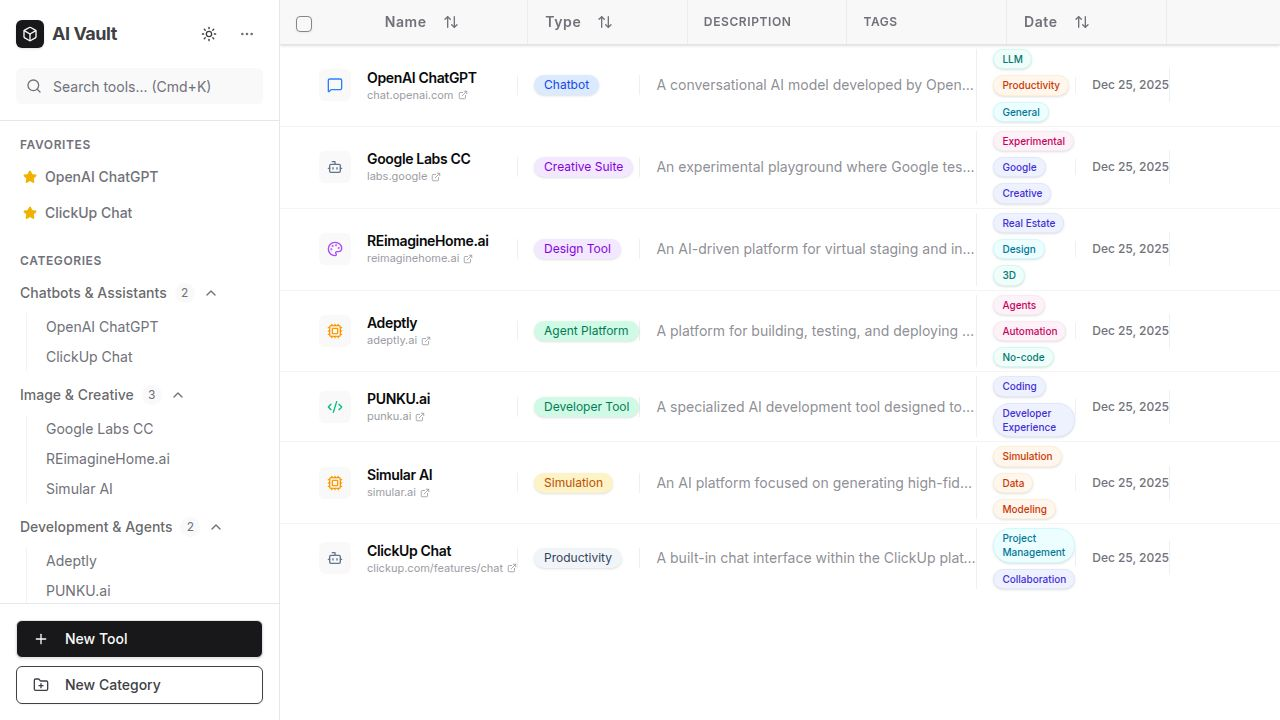
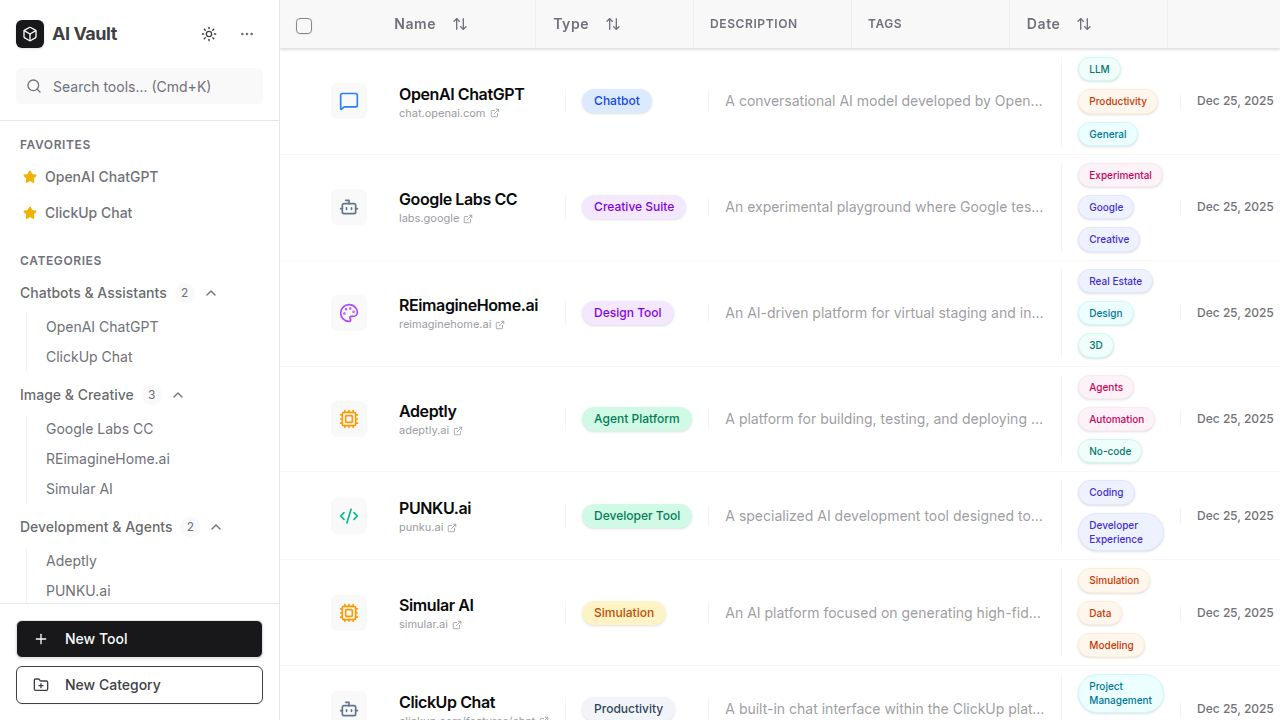
Enhance table appearance with increased row height and modern UI styling
Update ToolTable component to increase row height and cell padding, adjust icon sizes, modify text styles for name and description, refine badge appearance, and soften borders with a cleaner alternating row tint.

Replit-Commit-Author: Agent
Replit-Commit-Session-Id: 4b2f2ba4-cf3e-48dc-94a7-976f38e7155f
Replit-Commit-Checkpoint-Type: full_checkpoint
Replit-Commit-Event-Id: 47f153fe-fa7f-4975-9982-20dec0bfc790
Replit-Commit-Screenshot-Url: https://storage.googleapis.com/screenshot-production-us-central1/f680847d-1c71-4e98-a783-d24e051b3d42/4b2f2ba4-cf3e-48dc-94a7-976f38e7155f/qLF14MP
Replit-Helium-Checkpoint-Created: true

diff --git a/client/src/components/ToolTable.tsx b/client/src/components/ToolTable.tsx
@@ -71,8 +71,8 @@ const TypeIcon = ({ type }: { type: string }) => {
   else if (t.includes('web') || t.includes('site')) { Icon = Globe; colorClass = "text-cyan-500"; }
 
   return (
-    <div className="w-8 h-8 rounded-md bg-muted/50 flex items-center justify-center shrink-0 border border-transparent group-hover:bg-muted group-hover:border-border/50 transition-colors">
-      <Icon className={cn("w-4 h-4", colorClass)} />
+    <div className="w-9 h-9 rounded-md bg-muted/50 flex items-center justify-center shrink-0 border border-transparent group-hover:bg-muted group-hover:border-border/50 transition-colors">
+      <Icon className={cn("w-5 h-5", colorClass)} />
     </div>
   );
 };
@@ -133,7 +133,7 @@ export function ToolTable() {
         />
       ),
       cell: ({ row }) => (
-        <div className="border-l-[3px] border-transparent group-data-[state=selected]:border-primary h-full flex items-center pl-3 -ml-4 transition-colors">
+        <div className="border-l-[3px] border-transparent group-data-[state=selected]:border-primary h-full flex items-center pl-4 -ml-4 transition-colors">
            <Checkbox
             checked={row.getIsSelected()}
             onCheckedChange={(value) => row.toggleSelected(!!value)}
@@ -150,7 +150,7 @@ export function ToolTable() {
       accessorKey: "icon",
       header: "",
       cell: ({ row }) => <TypeIcon type={row.original.type} />,
-      size: 50,
+      size: 60,
     },
     {
       accessorKey: "name",
@@ -168,7 +168,7 @@ export function ToolTable() {
       },
       cell: ({ row }) => (
         <div className="flex flex-col max-w-[240px]">
-          <span className="font-semibold text-foreground truncate tracking-tight">{row.getValue("name")}</span>
+          <span className="font-semibold text-base text-foreground truncate tracking-tight">{row.getValue("name")}</span>
           <a 
             href={row.original.url} 
             target="_blank" 
@@ -186,7 +186,7 @@ export function ToolTable() {
       accessorKey: "type",
       header: ({ column }) => {
         return (
-          <div className="border-l border-border/60 pl-4 -ml-4 h-full flex items-center">
+          <div className="border-l border-border/40 pl-4 -ml-4 h-full flex items-center">
             <Button
               variant="ghost"
               onClick={() => column.toggleSorting(column.getIsSorted() === "asc")}
@@ -199,8 +199,8 @@ export function ToolTable() {
         )
       },
       cell: ({ row }) => (
-        <div className="border-l border-border/60 pl-4 -ml-4 h-full flex items-center">
-          <Badge variant="outline" className={`font-normal whitespace-nowrap px-2.5 py-0.5 rounded-full border-none ${getTypeColor(row.getValue("type"))}`}>
+        <div className="border-l border-border/40 pl-4 -ml-4 h-full flex items-center">
+          <Badge variant="outline" className={`font-medium whitespace-nowrap px-3 py-1 rounded-full border-none ${getTypeColor(row.getValue("type"))}`}>
             {row.getValue("type")}
           </Badge>
         </div>
@@ -208,10 +208,10 @@ export function ToolTable() {
     },
     {
       accessorKey: "whatItIs",
-      header: () => <div className="border-l border-border/60 pl-4 -ml-4 h-full flex items-center font-semibold text-muted-foreground">Description</div>,
+      header: () => <div className="border-l border-border/40 pl-4 -ml-4 h-full flex items-center font-semibold text-muted-foreground">Description</div>,
       cell: ({ row }) => (
-        <div className="border-l border-border/60 pl-4 -ml-4 h-full flex items-center">
-          <div className="max-w-[320px] truncate text-muted-foreground/80 text-sm" title={row.getValue("whatItIs") || row.original.summary}>
+        <div className="border-l border-border/40 pl-4 -ml-4 h-full flex items-center">
+          <div className="max-w-[320px] truncate text-muted-foreground/70 text-sm" title={row.getValue("whatItIs") || row.original.summary}>
             {row.getValue("whatItIs") || row.original.summary}
           </div>
         </div>
@@ -219,17 +219,17 @@ export function ToolTable() {
     },
     {
       accessorKey: "tags",
-      header: () => <div className="border-l border-border/60 pl-4 -ml-4 h-full flex items-center font-semibold text-muted-foreground">Tags</div>,
+      header: () => <div className="border-l border-border/40 pl-4 -ml-4 h-full flex items-center font-semibold text-muted-foreground">Tags</div>,
       cell: ({ row }) => (
-        <div className="border-l border-border/60 pl-4 -ml-4 h-full flex items-center">
-          <div className="flex flex-wrap gap-1.5 max-w-[200px]">
+        <div className="border-l border-border/40 pl-4 -ml-4 h-full flex items-center">
+          <div className="flex flex-wrap gap-2 max-w-[200px]">
             {(row.getValue("tags") as string[]).slice(0, 3).map((tag) => (
-              <span key={tag} className={`px-2 py-0.5 rounded-full text-[10px] font-medium border ${getTagColor(tag)}`}>
+              <span key={tag} className={`px-2.5 py-1 rounded-full text-[10px] font-medium border ${getTagColor(tag)}`}>
                 {tag}
               </span>
             ))}
             {(row.getValue("tags") as string[]).length > 3 && (
-              <span className="text-[10px] text-muted-foreground px-1 self-center bg-muted rounded-full py-0.5 min-w-[20px] text-center border border-border shadow-sm">
+              <span className="text-[10px] text-muted-foreground px-1.5 self-center bg-muted rounded-full py-0.5 min-w-[20px] text-center border border-border shadow-sm">
                 +{(row.getValue("tags") as string[]).length - 3}
               </span>
             )}
@@ -241,7 +241,7 @@ export function ToolTable() {
       accessorKey: "createdAt",
       header: ({ column }) => {
         return (
-          <div className="border-l border-border/60 pl-4 -ml-4 h-full flex items-center">
+          <div className="border-l border-border/40 pl-4 -ml-4 h-full flex items-center">
             <Button
               variant="ghost"
               onClick={() => column.toggleSorting(column.getIsSorted() === "asc")}
@@ -254,7 +254,7 @@ export function ToolTable() {
         )
       },
       cell: ({ row }) => (
-        <div className="border-l border-border/60 pl-4 -ml-4 h-full flex items-center">
+        <div className="border-l border-border/40 pl-4 -ml-4 h-full flex items-center">
           <span className="text-muted-foreground whitespace-nowrap text-xs font-medium">
             {format(row.getValue("createdAt"), 'MMM d, yyyy')}
           </span>
@@ -263,24 +263,24 @@ export function ToolTable() {
     },
     {
       id: "actions",
-      header: () => <div className="border-l border-border/60 pl-4 -ml-4 h-full flex items-center"></div>,
+      header: () => <div className="border-l border-border/40 pl-4 -ml-4 h-full flex items-center"></div>,
       cell: ({ row }) => {
         const tool = row.original;
         return (
-          <div className="border-l border-border/60 pl-4 -ml-4 h-full flex items-center justify-end pr-2">
+          <div className="border-l border-border/40 pl-4 -ml-4 h-full flex items-center justify-end pr-2">
             <div className="flex items-center gap-0.5 opacity-0 group-hover:opacity-100 transition-opacity bg-background/80 backdrop-blur-sm rounded-md shadow-sm border border-border/50 p-0.5">
               <Tooltip>
                 <TooltipTrigger asChild>
                   <Button 
                     variant="ghost" 
                     size="icon" 
-                    className="h-7 w-7 hover:bg-muted"
+                    className="h-8 w-8 hover:bg-muted"
                     onClick={(e) => {
                       e.stopPropagation();
                       dispatch({ type: 'TOGGLE_PIN', payload: { id: tool.id } });
                     }}
                   >
-                    <Star className={`h-3.5 w-3.5 ${tool.isPinned ? 'fill-yellow-500 text-yellow-500' : 'text-muted-foreground'}`} />
+                    <Star className={`h-4 w-4 ${tool.isPinned ? 'fill-yellow-500 text-yellow-500' : 'text-muted-foreground'}`} />
                   </Button>
                 </TooltipTrigger>
                 <TooltipContent>Favorite</TooltipContent>
@@ -291,13 +291,13 @@ export function ToolTable() {
                   <Button 
                     variant="ghost" 
                     size="icon" 
-                    className="h-7 w-7 hover:bg-muted"
+                    className="h-8 w-8 hover:bg-muted"
                     onClick={(e) => {
                       e.stopPropagation();
                       handleEdit(tool);
                     }}
                   >
-                    <Edit2 className="h-3.5 w-3.5 text-muted-foreground" />
+                    <Edit2 className="h-4 w-4 text-muted-foreground" />
                   </Button>
                 </TooltipTrigger>
                 <TooltipContent>Edit</TooltipContent>
@@ -308,13 +308,13 @@ export function ToolTable() {
                   <Button 
                     variant="ghost" 
                     size="icon" 
-                    className="h-7 w-7 text-destructive hover:text-destructive hover:bg-destructive/10"
+                    className="h-8 w-8 text-destructive hover:text-destructive hover:bg-destructive/10"
                     onClick={(e) => {
                       e.stopPropagation();
                       handleDelete(tool.id);
                     }}
                   >
-                    <Trash2 className="h-3.5 w-3.5" />
+                    <Trash2 className="h-4 w-4" />
                   </Button>
                 </TooltipTrigger>
                 <TooltipContent>Delete</TooltipContent>
@@ -350,7 +350,7 @@ export function ToolTable() {
             {table.getHeaderGroups().map((headerGroup) => (
               <TableRow key={headerGroup.id} className="hover:bg-transparent border-none">
                 {headerGroup.headers.map((header) => (
-                  <TableHead key={header.id} style={{ width: header.getSize() }} className="h-11 text-xs font-semibold uppercase tracking-wider text-foreground/70 first:pl-4">
+                  <TableHead key={header.id} style={{ width: header.getSize() }} className="h-12 text-xs font-semibold uppercase tracking-wider text-foreground/70 first:pl-4">
                     {header.isPlaceholder
                       ? null
                       : flexRender(
@@ -374,11 +374,11 @@ export function ToolTable() {
                 <TableRow
                   key={row.id}
                   data-state={row.getIsSelected() && "selected"}
-                  className="group h-[52px] hover:bg-muted/40 data-[state=selected]:bg-primary/5 border-b border-border/40 transition-colors relative"
+                  className="group h-[60px] hover:bg-muted/30 data-[state=selected]:bg-primary/5 border-b border-border/30 transition-colors relative"
                   onClick={() => dispatch({ type: 'SELECT_TOOL', payload: { id: row.original.id } })}
                 >
                   {row.getVisibleCells().map((cell) => (
-                    <TableCell key={cell.id} style={{ width: cell.column.getSize() }} className="py-1 text-sm first:pl-4">
+                    <TableCell key={cell.id} style={{ width: cell.column.getSize() }} className="py-2 text-sm px-4 first:pl-4">
                       {flexRender(cell.column.columnDef.cell, cell.getContext())}
                     </TableCell>
                   ))}
